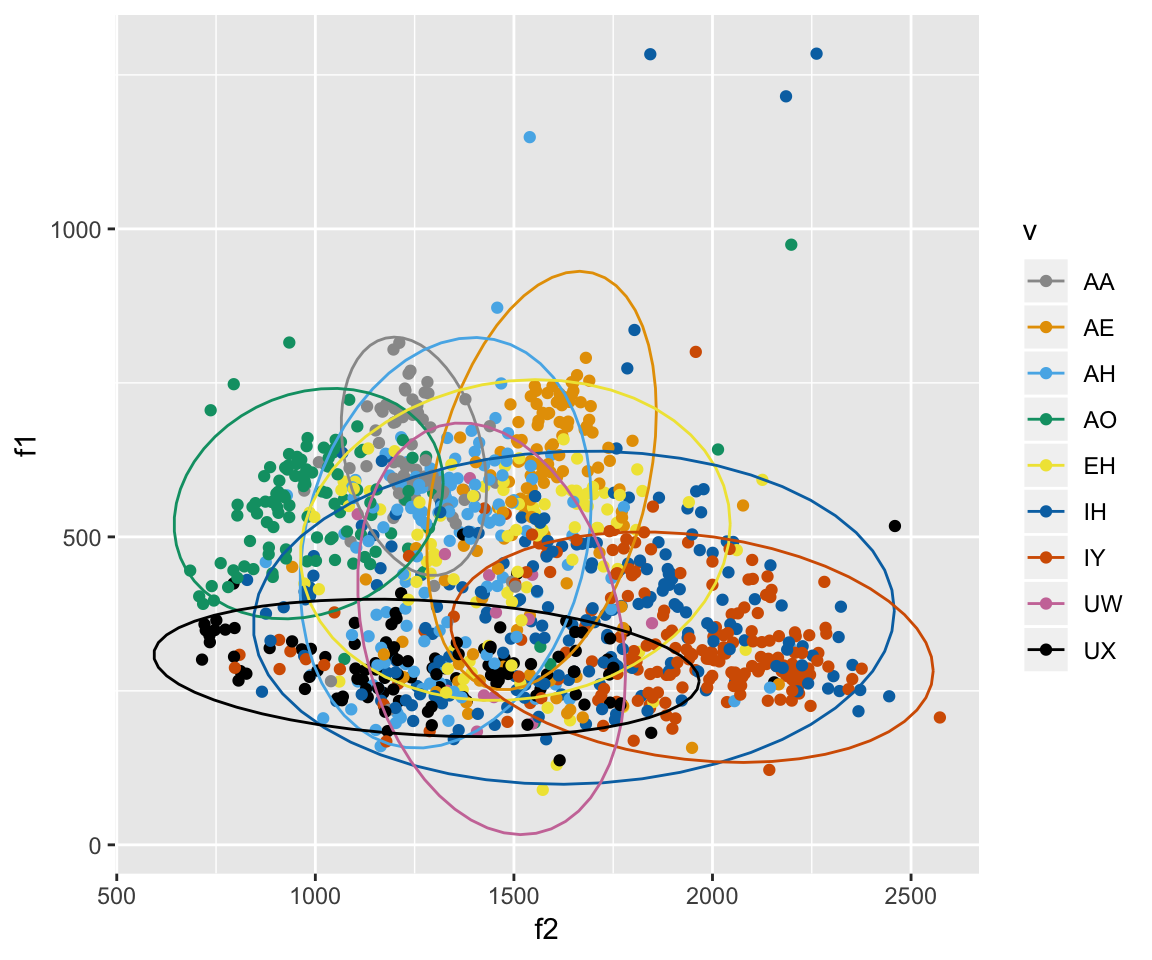
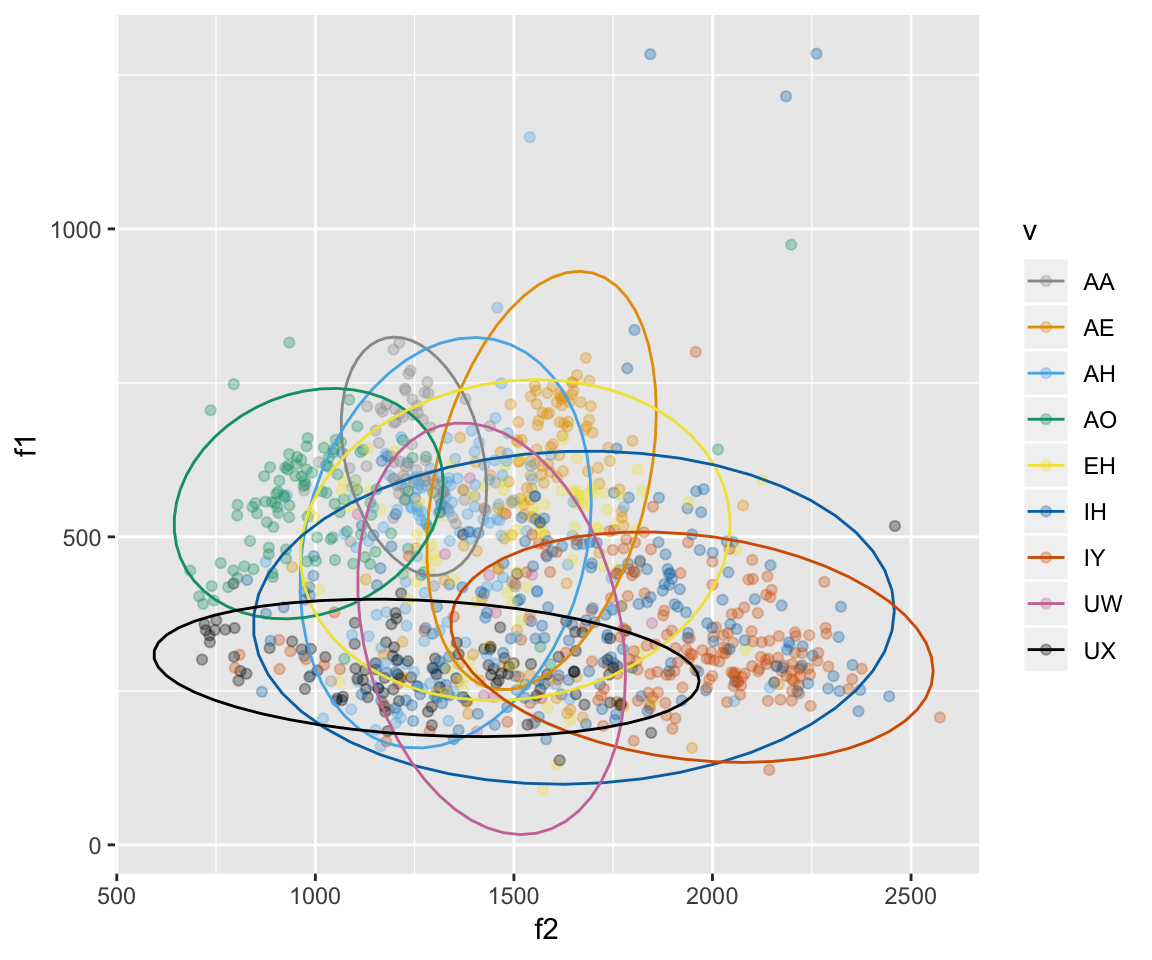
first commit

diff --git a/portfolio/rgraphingworkshop/index.html b/portfolio/rgraphingworkshop/index.html
@@ -112,8 +112,6 @@
 <li><a href="#statistical-transformations">Statistical Transformations</a></li>
 <li><a href="#other-aspects-of-the-graph">Other Aspects of the graph</a><ul>
 <li><a href="#colors">Colors</a></li>
-<li><a href="#labels-titles-and-axes">Labels, titles, and Axes</a></li>
-<li><a href="#theme">Theme</a></li>
 </ul></li>
 <li><a href="#wrapping-up">Wrapping up</a></li>
 </ul>
@@ -121,8 +119,10 @@
 
 <p>The aim of this workshop is to teach you the ins and outs of using the <em>ggplot2</em> package in R.</p>
 <p>The materials for this workshop can be found <a href="https://github.com/marissabarlaz/Workshops/tree/master/Graphing">here</a>.</p>
-<p>A lot of the information in this workshop is based on workshops given at Harvard: <a href="https://dss.iq.harvard.edu/workshop-materials" class="uri">https://dss.iq.harvard.edu/workshop-materials</a></p>
-<p>Please make good use of the following cheat sheet! <a href="https://www.rstudio.com/wp-content/uploads/2015/03/ggplot2-cheatsheet.pdf" class="uri">https://www.rstudio.com/wp-content/uploads/2015/03/ggplot2-cheatsheet.pdf</a></p>
+<p>A lot of the information in this workshop is based on workshops given at Harvard:
+<a href="https://dss.iq.harvard.edu/workshop-materials" class="uri">https://dss.iq.harvard.edu/workshop-materials</a></p>
+<p>Please make good use of the following cheat sheet!
+<a href="https://www.rstudio.com/wp-content/uploads/2015/03/ggplot2-cheatsheet.pdf" class="uri">https://www.rstudio.com/wp-content/uploads/2015/03/ggplot2-cheatsheet.pdf</a></p>
 <div id="data" class="section level2">
 <h2>Data</h2>
 <p>The data I will be using during this tutorial is from the University of Wisconsin’s X-Ray Microbeam Speech Production Database. The database has the following variables:</p>
@@ -135,7 +135,8 @@
 <li>t(1-4)x and t(1-4)y = x and y coordinates of the tongue at position (1-4)</li>
 <li>mnix and mniy = x and y coordinates of the mandibular incisor</li>
 <li>mnmx and mnmy = x and y coordinates of the mandibular molar</li>
-<li>I have artificially introduced 5 “speakers” randomly ## Introduction to ggplot</li>
+<li>I have artificially introduced 5 “speakers” randomly
+## Introduction to ggplot</li>
 </ul>
 <p>As linguists, we are often dealing with data. And dealing with data means that when we are presenting results, we need to both describe these results in words, and display these results using plots.</p>
 <p>R is very powerful when it comes to making graphics. There are a lot of functions in base R that can create these graphics:</p>
@@ -194,7 +195,8 @@
 <pre class="r"><code>ggplot(ubdb, aes(x=t1y, y=f1)) + geom_point(aes(color = f1))</code></pre>
 <p><img src="/portfolio/RGraphingWorkshop_files/figure-html/ggplot11-3.png" width="576" /></p>
 <pre class="r"><code>ggplot(ubdb, aes(x=t1y, y=f1)) + geom_point(aes(color = t4y))</code></pre>
-<p><img src="/portfolio/RGraphingWorkshop_files/figure-html/ggplot11-4.png" width="576" /> What’s the difference here? For the first plot, we are plotting basic geometric points. For the subsequent plots, we are adding an additional layer to the plot - changing the color of the plots from the default black. Therefore, the aesthetics of the points need to be included.</p>
+<p><img src="/portfolio/RGraphingWorkshop_files/figure-html/ggplot11-4.png" width="576" />
+What’s the difference here? For the first plot, we are plotting basic geometric points. For the subsequent plots, we are adding an additional layer to the plot - changing the color of the plots from the default black. Therefore, the aesthetics of the points need to be included.</p>
 <pre class="r"><code>ggplot(ubdb, aes(x=t1y, y=f1)) + geom_point(aes(color = t4y, size = 2))</code></pre>
 <p><img src="/portfolio/RGraphingWorkshop_files/figure-html/ggplot2-1.png" width="576" /></p>
 <pre class="r"><code>ggplot(ubdb, aes(x=t1y, y=f1)) + geom_point(aes(color = t4y), size = 2)</code></pre>
@@ -210,10 +212,11 @@
 <pre class="r"><code>#This is one way to get around the aes() issue, but is not the best! It means you have to call your data file again, and if you have some similarly-titled data frames, a simple typo can give you an inaccurate graph!
 ggplot(ubdb, aes(x=t1y, y=f1)) + geom_line(group = ubdb$v, color = ubdb$v)</code></pre>
 <pre><code>## Error in grDevices::col2rgb(colour, TRUE): invalid color name &#39;AA&#39;</code></pre>
-<pre class="r"><code>#Sing it with me - this is how you do it!
+<pre class="r"><code>#This is the best method of doing it!
 ggplot(ubdb, aes(x=t1y, y=f1)) + geom_line(aes(group = v, color = v))</code></pre>
 <p><img src="/portfolio/RGraphingWorkshop_files/figure-html/ggplot3-1.png" width="576" /></p>
-<p>What about other aesthetics? For boxplots and barplots, as well as other geoms, we can include significance levels with the <em>ggsignif</em> package. The pairwise comparisons being made are included in a list. The significance levels can be manually given using the ‘annotations’ argument. The geom_signif function has many other possibilities for changing the style of the significance bars.</p>
+<p>What about other aesthetics?
+For boxplots and barplots, as well as other geoms, we can include significance levels with the <em>ggsignif</em> package. The pairwise comparisons being made are included in a list. The significance levels can be manually given using the ‘annotations’ argument. The geom_signif function has many other possibilities for changing the style of the significance bars.</p>
 <pre class="r"><code>ggplot(ubdb, aes(x=v, y=f1)) + geom_boxplot(aes(group = v))</code></pre>
 <p><img src="/portfolio/RGraphingWorkshop_files/figure-html/ggplot33-1.png" width="576" /></p>
 <pre class="r"><code>mycomparisons = list(c(&quot;AA&quot;, &quot;AE&quot;), c(&quot;IH&quot;, &quot;IY&quot;), c(&quot;IH&quot;, &quot;UW&quot;))
@@ -245,6 +248,13 @@ ggplot(ubdb, aes(x=t1y, y=f1)) + geom_smooth(aes(color = v), method = &quot;gam&
 <p><img src="/portfolio/RGraphingWorkshop_files/figure-html/ggplot36-3.png" width="576" /></p>
 <pre class="r"><code>ggplot(ubdb, aes(x=v))+geom_bar(aes(color = v, fill = v))</code></pre>
 <p><img src="/portfolio/RGraphingWorkshop_files/figure-html/ggplot36-4.png" width="576" /></p>
+<p>What if we wanted to plot the average F1 for each vowel? This doesn’t do it…</p>
+<pre class="r"><code>ggplot(ubdb, aes(x=v, y = f1))+geom_bar(aes(color = v, fill = v), stat = &quot;identity&quot;)</code></pre>
+<p><img src="/portfolio/RGraphingWorkshop_files/figure-html/unnamed-chunk-1-1.png" width="576" />
+What we need to do is create a summary function and pass that into ggplot.</p>
+<pre class="r"><code>ubdb %&gt;% group_by(v) %&gt;% summarise(meanF1 = mean(f1)) %&gt;% ggplot(aes(x=v, y = meanF1))+geom_bar(aes(color = v, fill = v), stat = &quot;identity&quot;)</code></pre>
+<p><img src="/portfolio/RGraphingWorkshop_files/figure-html/unnamed-chunk-2-1.png" width="576" /></p>
+<p>```</p>
 </div>
 <div id="faceting" class="section level2">
 <h2>Faceting</h2>
@@ -290,11 +300,13 @@ ggplot(ubdb, aes(x=f2, y=f1))+geom_text(data = mymeans, aes(color = v, label = v
 <p><img src="/portfolio/RGraphingWorkshop_files/figure-html/ggplot5-10.png" width="576" /></p>
 <pre class="r"><code>ggplot(ubdb, aes(x=f2, y=f1))+geom_text(data = mymeans, aes(color = v, label = v), size = 4)+stat_ellipse(aes(color = v, linetype = v))</code></pre>
 <p><img src="/portfolio/RGraphingWorkshop_files/figure-html/ggplot5-11.png" width="576" /></p>
+<pre class="r"><code>ggplot(ubdb, aes(x=f2, y=f1))+geom_text(data = mymeans, aes(color = v, label = v), size = 4)+stat_ellipse(aes(color = v, linetype = v))+ geom_point(aes(color = v), alpha = 0.2)</code></pre>
+<p><img src="/portfolio/RGraphingWorkshop_files/figure-html/ggplot5-12.png" width="576" /></p>
 <pre class="r"><code>ggplot(ubdb, aes(x=f2, y=f1))+geom_text(data = mymeans2, aes(color = v, label = v), size = 4,show.legend = FALSE)+stat_ellipse(aes(color = v, linetype = v))+facet_wrap(~speaker)</code></pre>
 <pre><code>## Too few points to calculate an ellipse</code></pre>
 <pre><code>## Too few points to calculate an ellipse</code></pre>
 <pre><code>## Warning: Removed 1 rows containing missing values (geom_path).</code></pre>
-<p><img src="/portfolio/RGraphingWorkshop_files/figure-html/ggplot5-12.png" width="576" /></p>
+<p><img src="/portfolio/RGraphingWorkshop_files/figure-html/ggplot5-13.png" width="576" /></p>
 </div>
 <div id="other-aspects-of-the-graph" class="section level2">
 <h2>Other Aspects of the graph</h2>
@@ -307,13 +319,12 @@ ggplot(ubdb, aes(x=f2, y=f1))+geom_text(data = mymeans, aes(color = v, label = v
 
 # To use for line and point colors, add  scale_colour_manual(values=cbPalette)
 
-ggplot(ubdb, aes(x=f2, y=f1))+geom_point(aes(color = v))+stat_ellipse(aes(color = v))+scale_color_manual(values = cbPalette)</code></pre>
-<p><img src="/portfolio/RGraphingWorkshop_files/figure-html/colors-1.png" width="576" /> There are many other ways to define and change colors, including changing hues, luminance, saturation, etc. If you have any questions about these things, please ask me! You can also find more information on color in R here:</p>
+ggplot(ubdb, aes(x=f2, y=f1))+geom_point(aes(color = v), alpha = 0.3)+stat_ellipse(aes(color = v))+scale_color_manual(values = cbPalette)</code></pre>
+<p><img src="/portfolio/RGraphingWorkshop_files/figure-html/colors-1.png" width="576" />
+There are many other ways to define and change colors, including changing hues, luminance, saturation, etc. If you have any questions about these things, please ask me! You can also find more information on color in R here:</p>
 <p><a href="http://www.cookbook-r.com/Graphs/Colors_(ggplot2)/" class="uri">http://www.cookbook-r.com/Graphs/Colors_(ggplot2)/</a></p>
-</div>
-<div id="labels-titles-and-axes" class="section level3">
-<h3>Labels, titles, and Axes</h3>
-<p>If you want to relabel the axes, or give a title, you can use the <em>xlab()</em>, <em>ylab()</em>, and <em>ggtitle()</em> functions.</p>
+<p>###Labels, titles, and Axes
+If you want to relabel the axes, or give a title, you can use the <em>xlab()</em>, <em>ylab()</em>, and <em>ggtitle()</em> functions.</p>
 <p>To change limits of the x and y axes, you can use <em>xlim()</em> and <em>ylim()</em>.</p>
 <p>You can reverse the order of the x and y axes using <em>scale_x_reverse()</em> and <em>scale_y_reverse()</em>.</p>
 <p>If you want to move the axes to the right/top, put these positions in the <em>scale_x_continuous()</em> and <em>scale_y_continuous()</em> functions. These can also go in the <em>scale_x_reverse()</em> and <em>scale_y_reverse()</em> functions. You can also specify two axes by calling for a second, duplicate axis. If you are using custom x and y scales and want to change the limits of the axes, do so inside of the scale functions calling <em>limits = c(lim1, lim2)</em>. NOTE that if you are using <em>scale_x_reverse()</em> and/or <em>scale_y_reverse()</em> you have to include your limits in reverse!!</p>
@@ -329,11 +340,10 @@ ggplot(ubdb, aes(x=f2, y=f1))+geom_point(aes(color = v))+stat_ellipse(aes(color 
 <pre class="r"><code>ggplot(ubdb, aes(x=f2, y=f1))+geom_point(aes(color = v))+stat_ellipse(aes(color = v))+scale_color_manual(values = cbPalette)+scale_x_reverse(sec.axis = dup_axis()) + scale_y_reverse(limits = (c(0,1500)),sec.axis = dup_axis())+ xlab(&quot;F2!!!!&quot;) + ylab(&quot;F1!!!!!&quot;) + ggtitle(&quot;My vowel plot&quot;)</code></pre>
 <pre><code>## Warning: Removed 1073 rows containing non-finite values (stat_ellipse).</code></pre>
 <pre><code>## Warning: Removed 1073 rows containing missing values (geom_point).</code></pre>
-<p><img src="/portfolio/RGraphingWorkshop_files/figure-html/labels-4.png" width="576" /> <!-- ###Position --></p>
-</div>
-<div id="theme" class="section level3">
-<h3>Theme</h3>
-<p>As you’ve noticed, there is a set theme about the graphs - the background is grey, the text is black, the gridlines are white, etc. There are a number of ways to change the theme around. The most common is to use a different complete theme, such as <em>theme_minimal()</em> or <em>theme_grey()</em>. You can also define your own theme settings.</p>
+<p><img src="/portfolio/RGraphingWorkshop_files/figure-html/labels-4.png" width="576" />
+<!-- ###Position --></p>
+<p>###Theme
+As you’ve noticed, there is a set theme about the graphs - the background is grey, the text is black, the gridlines are white, etc. There are a number of ways to change the theme around. The most common is to use a different complete theme, such as <em>theme_minimal()</em> or <em>theme_grey()</em>. You can also define your own theme settings.</p>
 <pre class="r"><code>ggplot(ubdb, aes(x=f2, y=f1))+geom_point(aes(color = v))+stat_ellipse(aes(color = v))+scale_color_manual(values = cbPalette)+scale_x_reverse(position = &quot;top&quot;)+scale_y_reverse(position = &quot;right&quot;)+ xlab(&quot;F2!!!!&quot;) + ylab(&quot;F1!!!!!&quot;) + ggtitle(&quot;My vowel plot&quot;) + theme_minimal()</code></pre>
 <p><img src="/portfolio/RGraphingWorkshop_files/figure-html/ggplottheme-1.png" width="576" /></p>
 <pre class="r"><code>ggplot(ubdb, aes(x=f2, y=f1))+geom_point(aes(color = v))+stat_ellipse(aes(color = v))+scale_color_manual(values = cbPalette)+scale_x_reverse(position = &quot;top&quot;)+scale_y_reverse(position = &quot;right&quot;)+ xlab(&quot;F2!!!!&quot;) + ylab(&quot;F1!!!!!&quot;) + ggtitle(&quot;My vowel plot&quot;) + theme(panel.grid.major = element_blank(),panel.grid.minor = element_blank(),panel.border = element_blank(), panel.background = element_blank())</code></pre>
@@ -343,13 +353,14 @@ ggplot(ubdb, aes(x=f2, y=f1))+geom_point(aes(color = v))+stat_ellipse(aes(color 
 <div id="wrapping-up" class="section level2">
 <h2>Wrapping up</h2>
 <p>In sum, <em>ggplot2</em> is an extremely powerful package that can create lots of beautiful plots for your research. Think carefully about what you want to plot, and add layers as needed. I encourage you to save your plots as variables. You can then view and save them.</p>
-<pre class="r"><code>myplot = ggplot(ubdb, aes(x=f2, y=f1))+geom_point(aes(color = v))+stat_ellipse(aes(color = v))+scale_color_manual(values = cbPalette)+scale_x_reverse(position = &quot;top&quot;)+scale_y_reverse(position = &quot;right&quot;)+ xlab(&quot;F2!!!!&quot;) + ylab(&quot;F1!!!!!&quot;) + ggtitle(&quot;My vowel plot&quot;) + theme_minimal()
+<pre class="r"><code>myplot = ggplot(ubdb, aes(x=f2, y=f1))+geom_point(aes(color = v), alpha = 0.2, size = 0.4)+stat_ellipse(aes(color = v))+scale_color_manual(values = cbPalette)+scale_x_reverse(position = &quot;top&quot;)+scale_y_reverse(position = &quot;right&quot;)+ xlab(&quot;F2!!!!&quot;) + ylab(&quot;F1!!!!!&quot;) + ggtitle(&quot;My vowel plot&quot;) + theme_minimal() + geom_label(data = mymeans,aes(color = v, label = v), size = 4,show.legend =FALSE)
 
 myplot</code></pre>
 <p><img src="/portfolio/RGraphingWorkshop_files/figure-html/wrapup-1.png" width="576" /></p>
 <pre class="r"><code>#Not run = to save the plot!
 #ggsave(&quot;myplot.pdf&quot;, plot = myplot, height = 6, width = 10, units = &quot;in&quot;, device = cairo_pdf)</code></pre>
-<p>I highly recommend using the following reference whenever you need to find more information about a graphing mechanism in <em>ggplot</em>: <a href="http://ggplot2.tidyverse.org/reference/" class="uri">http://ggplot2.tidyverse.org/reference/</a></p>
+<p>I highly recommend using the following reference whenever you need to find more information about a graphing mechanism in <em>ggplot</em>:
+<a href="http://ggplot2.tidyverse.org/reference/" class="uri">http://ggplot2.tidyverse.org/reference/</a></p>
 </div>
 
          

diff --git a/about/index.html b/about/index.html
@@ -2,7 +2,7 @@
 <html lang="en-us">
 <head><meta charset="utf-8">
 <meta http-equiv="X-UA-Compatible" content="IE=edge">
-<title>About me</title>
+<title>About</title>
 
 <meta name="viewport" content="width=device-width, initial-scale=1">
 <meta name="robots" content="all,follow">
@@ -28,9 +28,6 @@
 
 <link href="/css/custom.css" rel="stylesheet">
 <link rel="shortcut icon" href="/img/favicon.png">
-
-  <link href="/about/index.xml" rel="alternate" type="application/rss+xml" title="Dr. Marissa Barlaz" />
-  <link href="/about/index.xml" rel="feed" type="application/rss+xml" title="Dr. Marissa Barlaz" />
 
 
 </head>
@@ -106,19 +103,10 @@
   <div class="row">
     <div class="col-lg-8">
       <div class="content-column-content">
-         <h1>About me</h1>
-         <p><img src="/img/MRI2.JPG" alt="This is me!" /></p>
+         <h1>About</h1>
+         <p>This is a &ldquo;hello world&rdquo; example website for the <a href="https://github.com/rstudio/blogdown"><strong>blogdown</strong></a> package. The theme was forked from <a href="https://github.com/jrutheiser/hugo-lithium-theme">@jrutheiser/hugo-lithium-theme</a> and modified by <a href="https://github.com/yihui/hugo-lithium-theme">Yihui Xie</a>.</p>
 
-<p>I am the Linguistic Data Analytics Manager in the School of Literatures, Cultures, and Linguistics at the University of Illinois at Urbana-Champaign. I received my PhD in Linguistics from the University of Illinois at Urbana-Champaign in May 2018.</p>
-
-<p>My research interests include articulatory and acoustic phonetics and phonology. I am currently working on projects related to modeling the relationship between articulation and acoustics using real-time magnetic resonance imaging. These projects include (1) articulatory-to-acoustic inversion using midsagittal images of the vocal tract and (2) statistical modeling of aperture shown in various slices of the vocal tract compared with denoised acoustic data recorded in the MR scanner. I study phenomena including nasalization in French and pharyngealization in Arabic.</p>
-
-<p>My dissertation explored the relationship between acoustics and articulation in Brazilian Portuguese nasal vowels. Specifically, I studied the phonetic structure of phonemic nasal vowels and phonetically nasalized vowels in comparison with oral vowels, to determine the phonological status of nasalization in Brazilian Portuguese.</p>
-
-<p>In the Fall 2018, I am teaching LING 490: Introduction to Statistical Analysis for Linguistic Research. In the past, I have taught LING 302: Elements of Phonology, and ESL 510: English Pronunciation for Academic Purposes.</p>
-
-<p>You can download my CV <a href="https://www.dropbox.com/s/ropex07m2d7wfn5/BarlazCV.pdf?dl=0">here</a>.</p>
-
+         
       </div>
     </div>
   </div>
